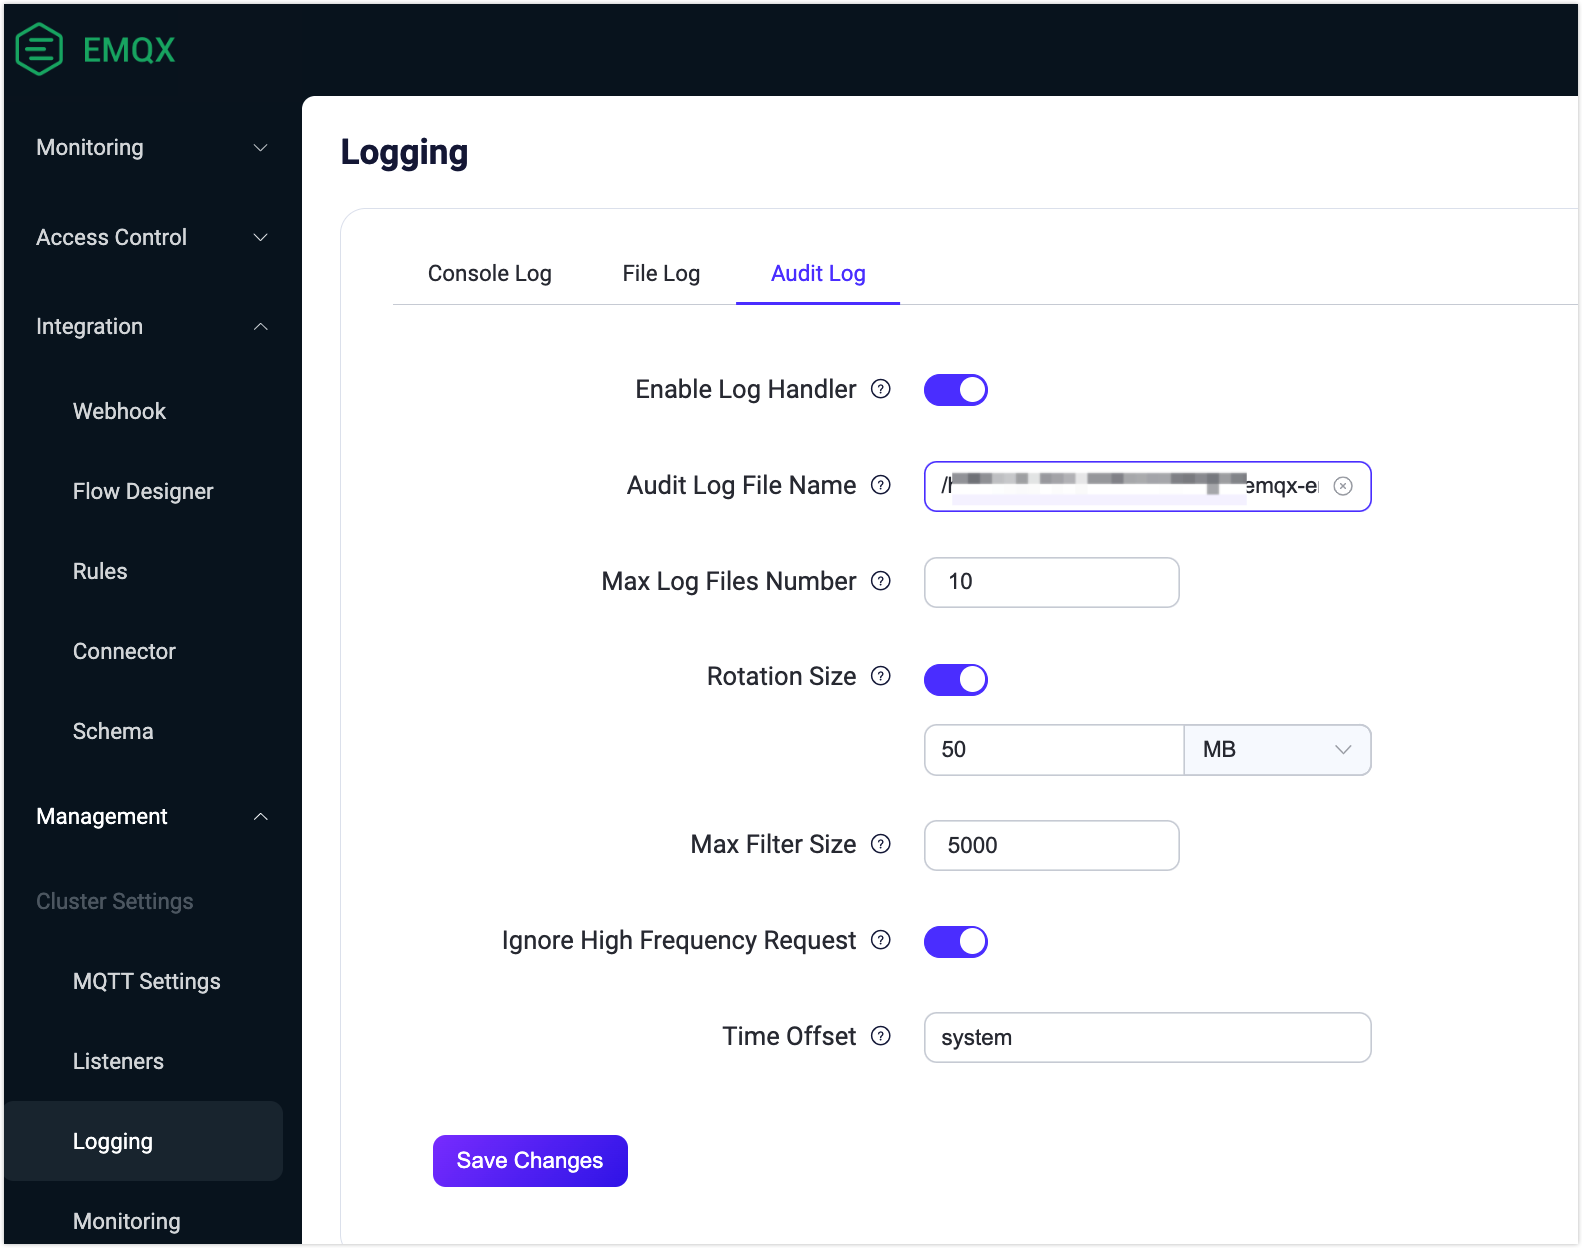
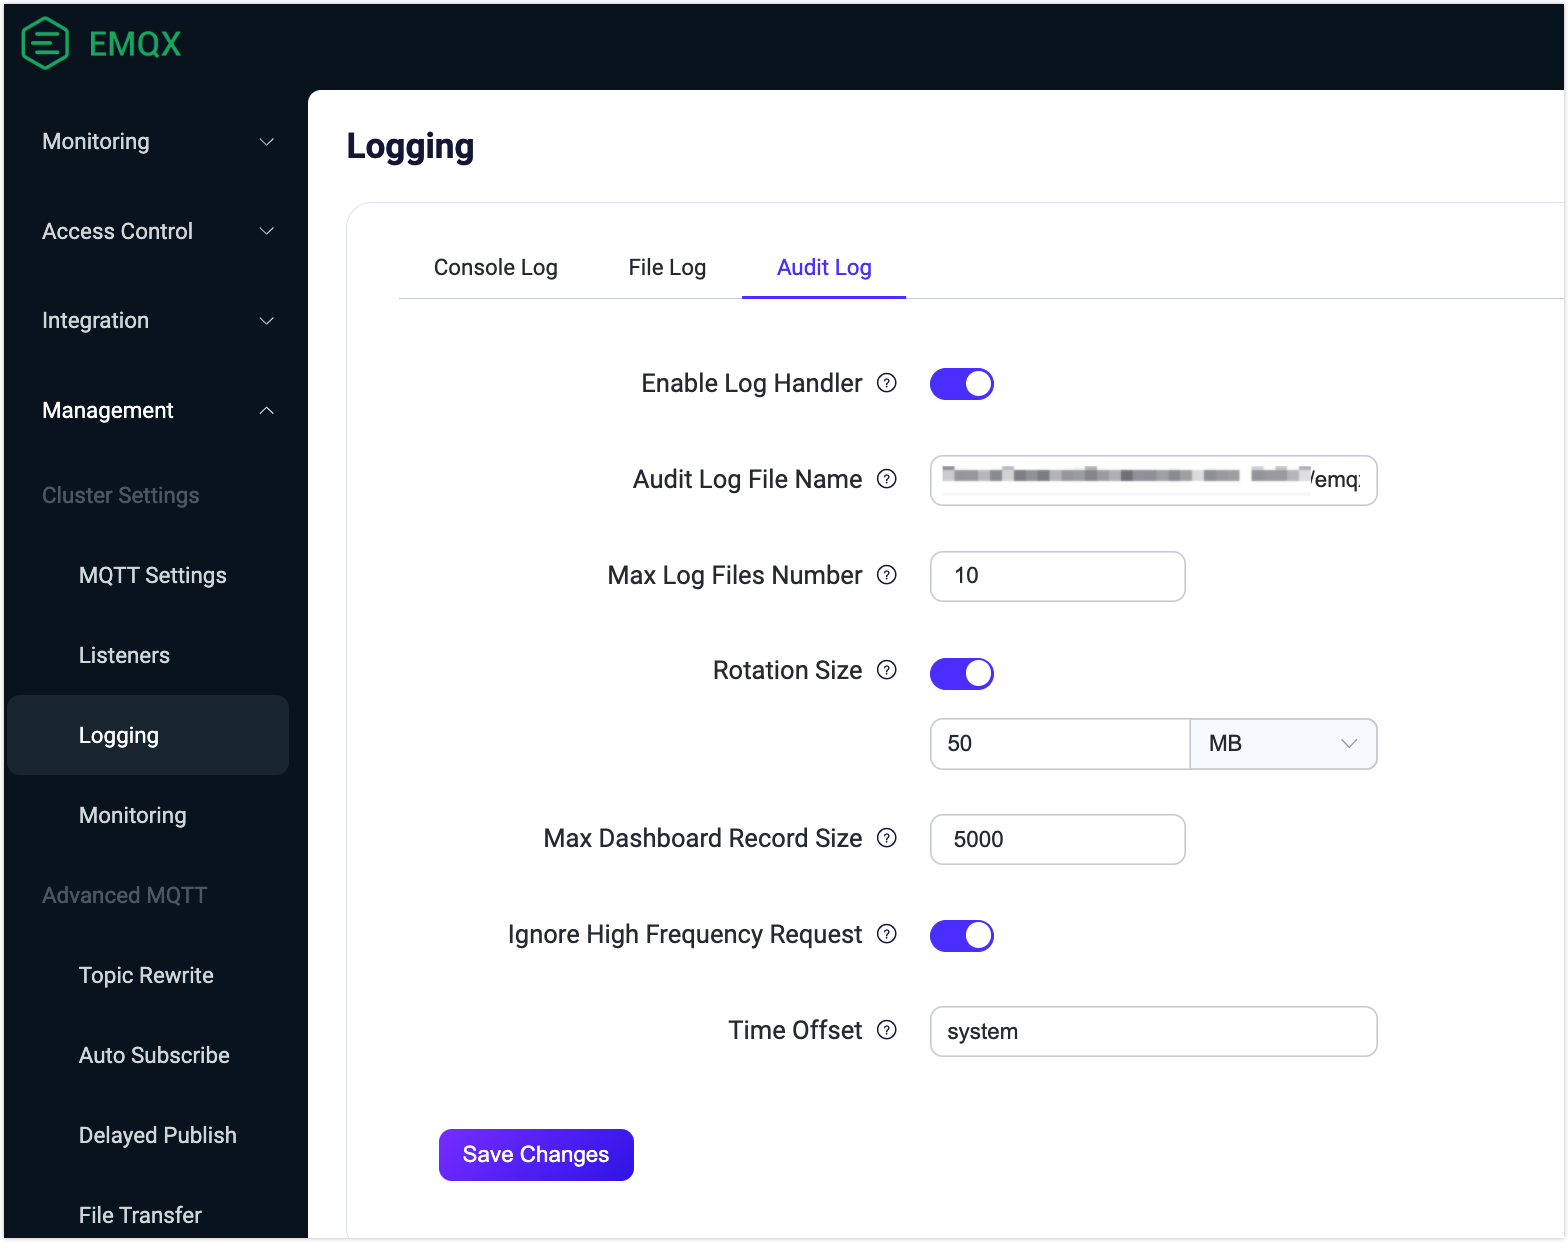
Added configuration options

diff --git a/en_US/dashboard/audit-log.md b/en_US/dashboard/audit-log.md
@@ -16,12 +16,14 @@ You can enable the audit log and modify the configuration parameters in the Dash
 
 <img src="./assets/audit_log_config.png" alt="Audit Log Configuration" style="zoom:50%;" />
 
-Audit log configuration options:
+You can configure the following options for Audit Log:
 
-- **Enable Log Handler**: Toggle the switch to enable or disable the audit log processing process. It is enabled by default.
+- **Enable Log Handler**: Enable or disable the audit log processing process. It is enabled by default.
 - **Audit Log File Name**: Specify the path and name of the audit log file. The default value is `${EMQX_LOG_DIR}/audit.log`, where `${EMQX_LOG_DIR}` is a variable and defaults to `./log`, meaning it is ultimately be saved in `./log/audit.log.1`.
 - **Maximum Log Files Number**: The maximum number of rotated log files. The default value is `10`.
 - **Rotation Size**: Set the size of log files, and when the specified size is reached, log files will be rotated. If disabled, log files will grow indefinitely. You can enter the desired value in the text box and select the unit from the dropdown list, with options such as `MB`, `GB`, and `KB`. The default value is `50MB`.
+- **Max Dashboard Record Size**: This setting determines the maximum number of records stored in the database, which can be accessed and retrieved through the Dashboard and the `/audit` API. The default value is `5000`.
+- **Ignore High Frequency Request**: This option controls whether to ignore high-frequency requests to prevent flooding the audit log with entries, such as requests related to publish/subscribe and kicking out clients. It is enabled by default.
 - **Time Offset**: Define the format of timestamps in the log. such as "-02:00" or "+00:00". By default, it is set to `system`.
 
 ### Enable Audit Log via Configuration File
